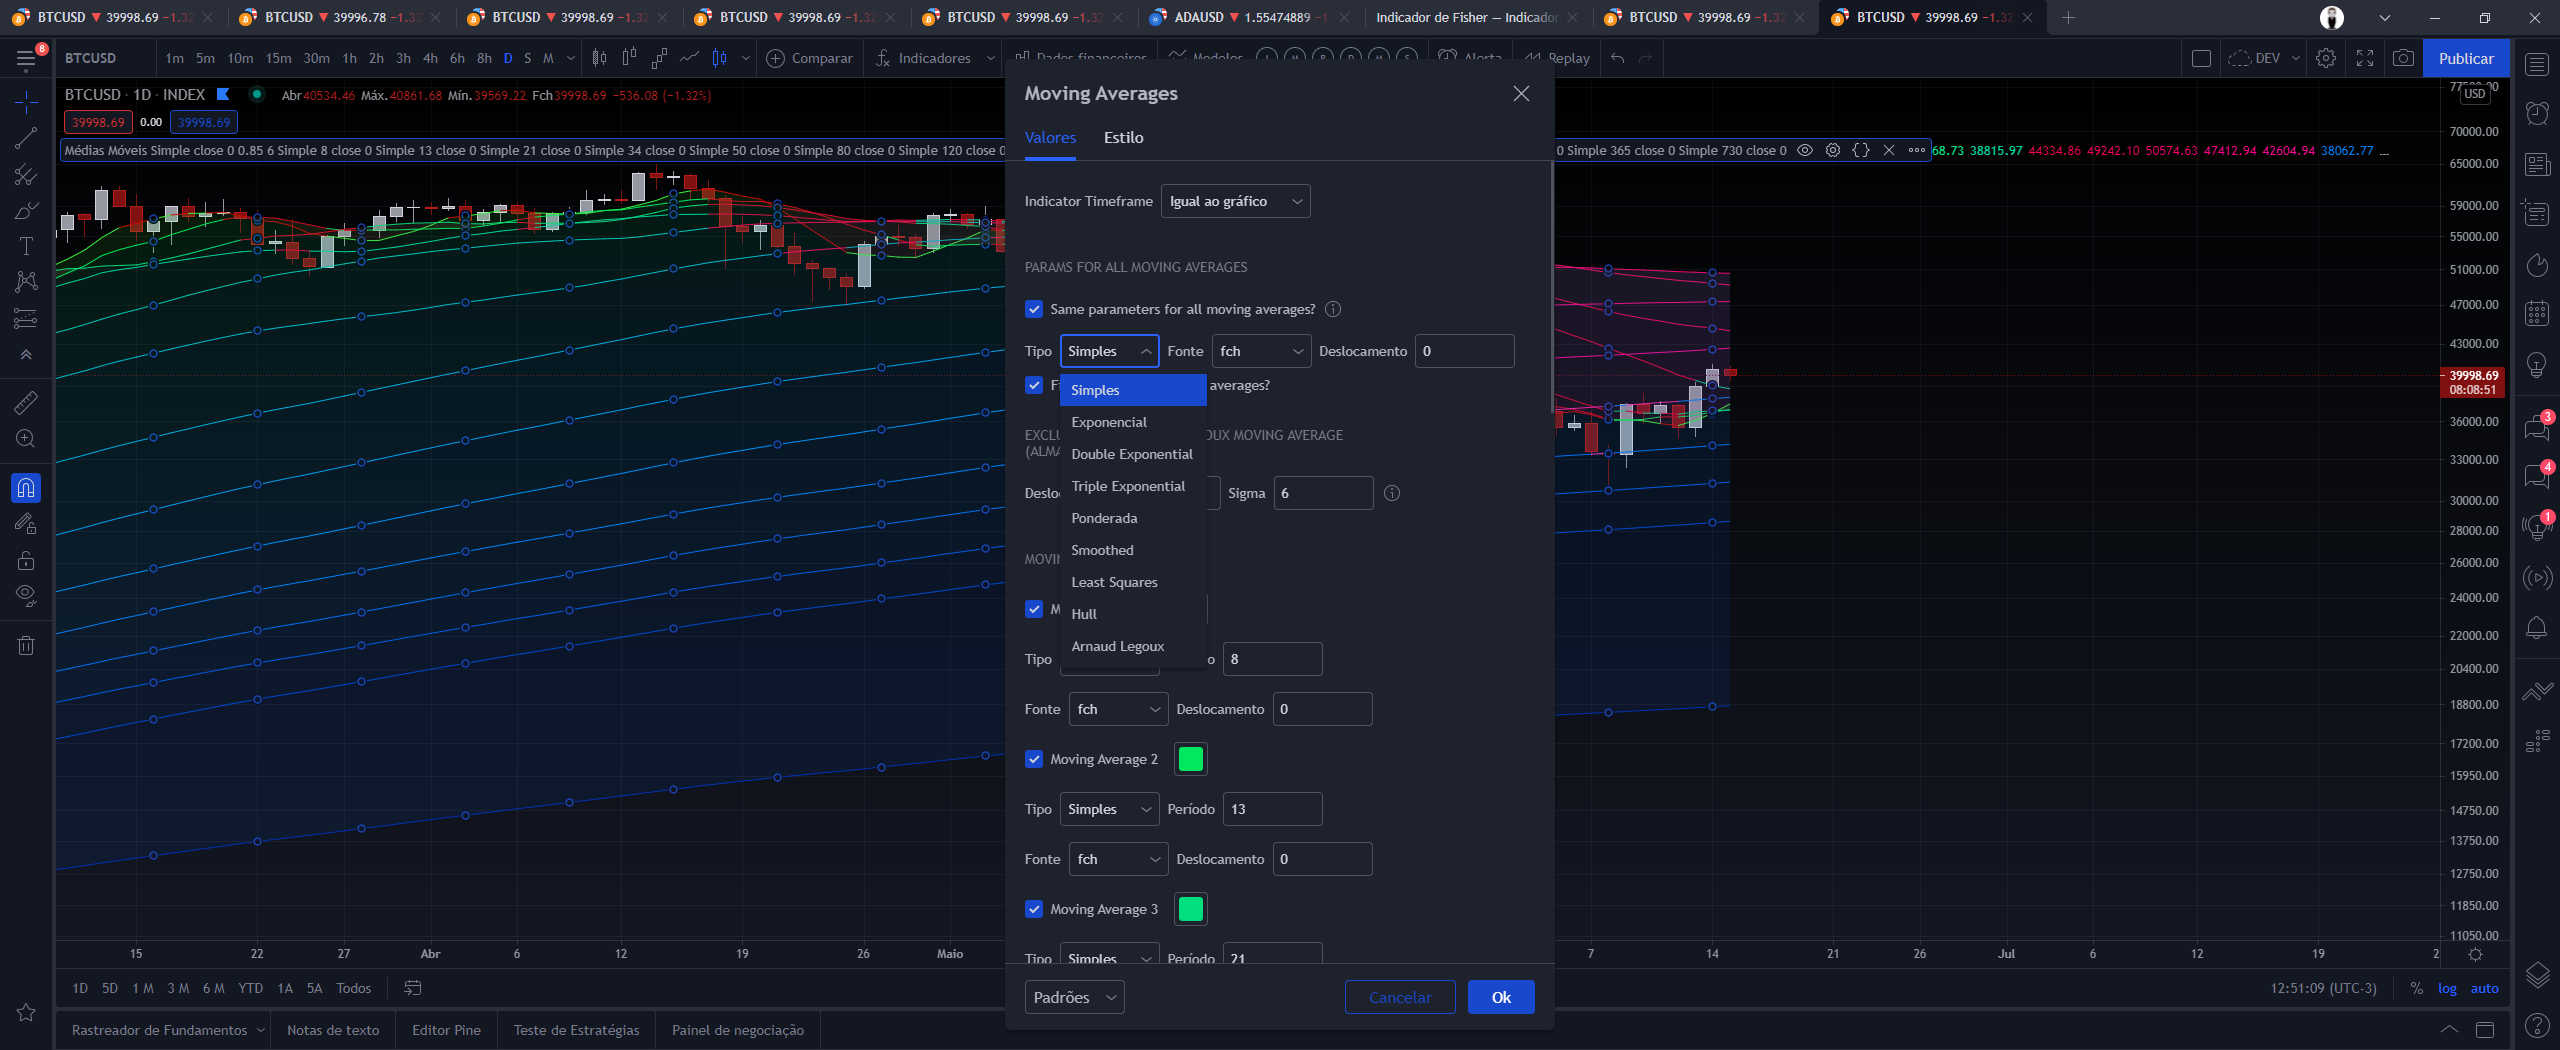
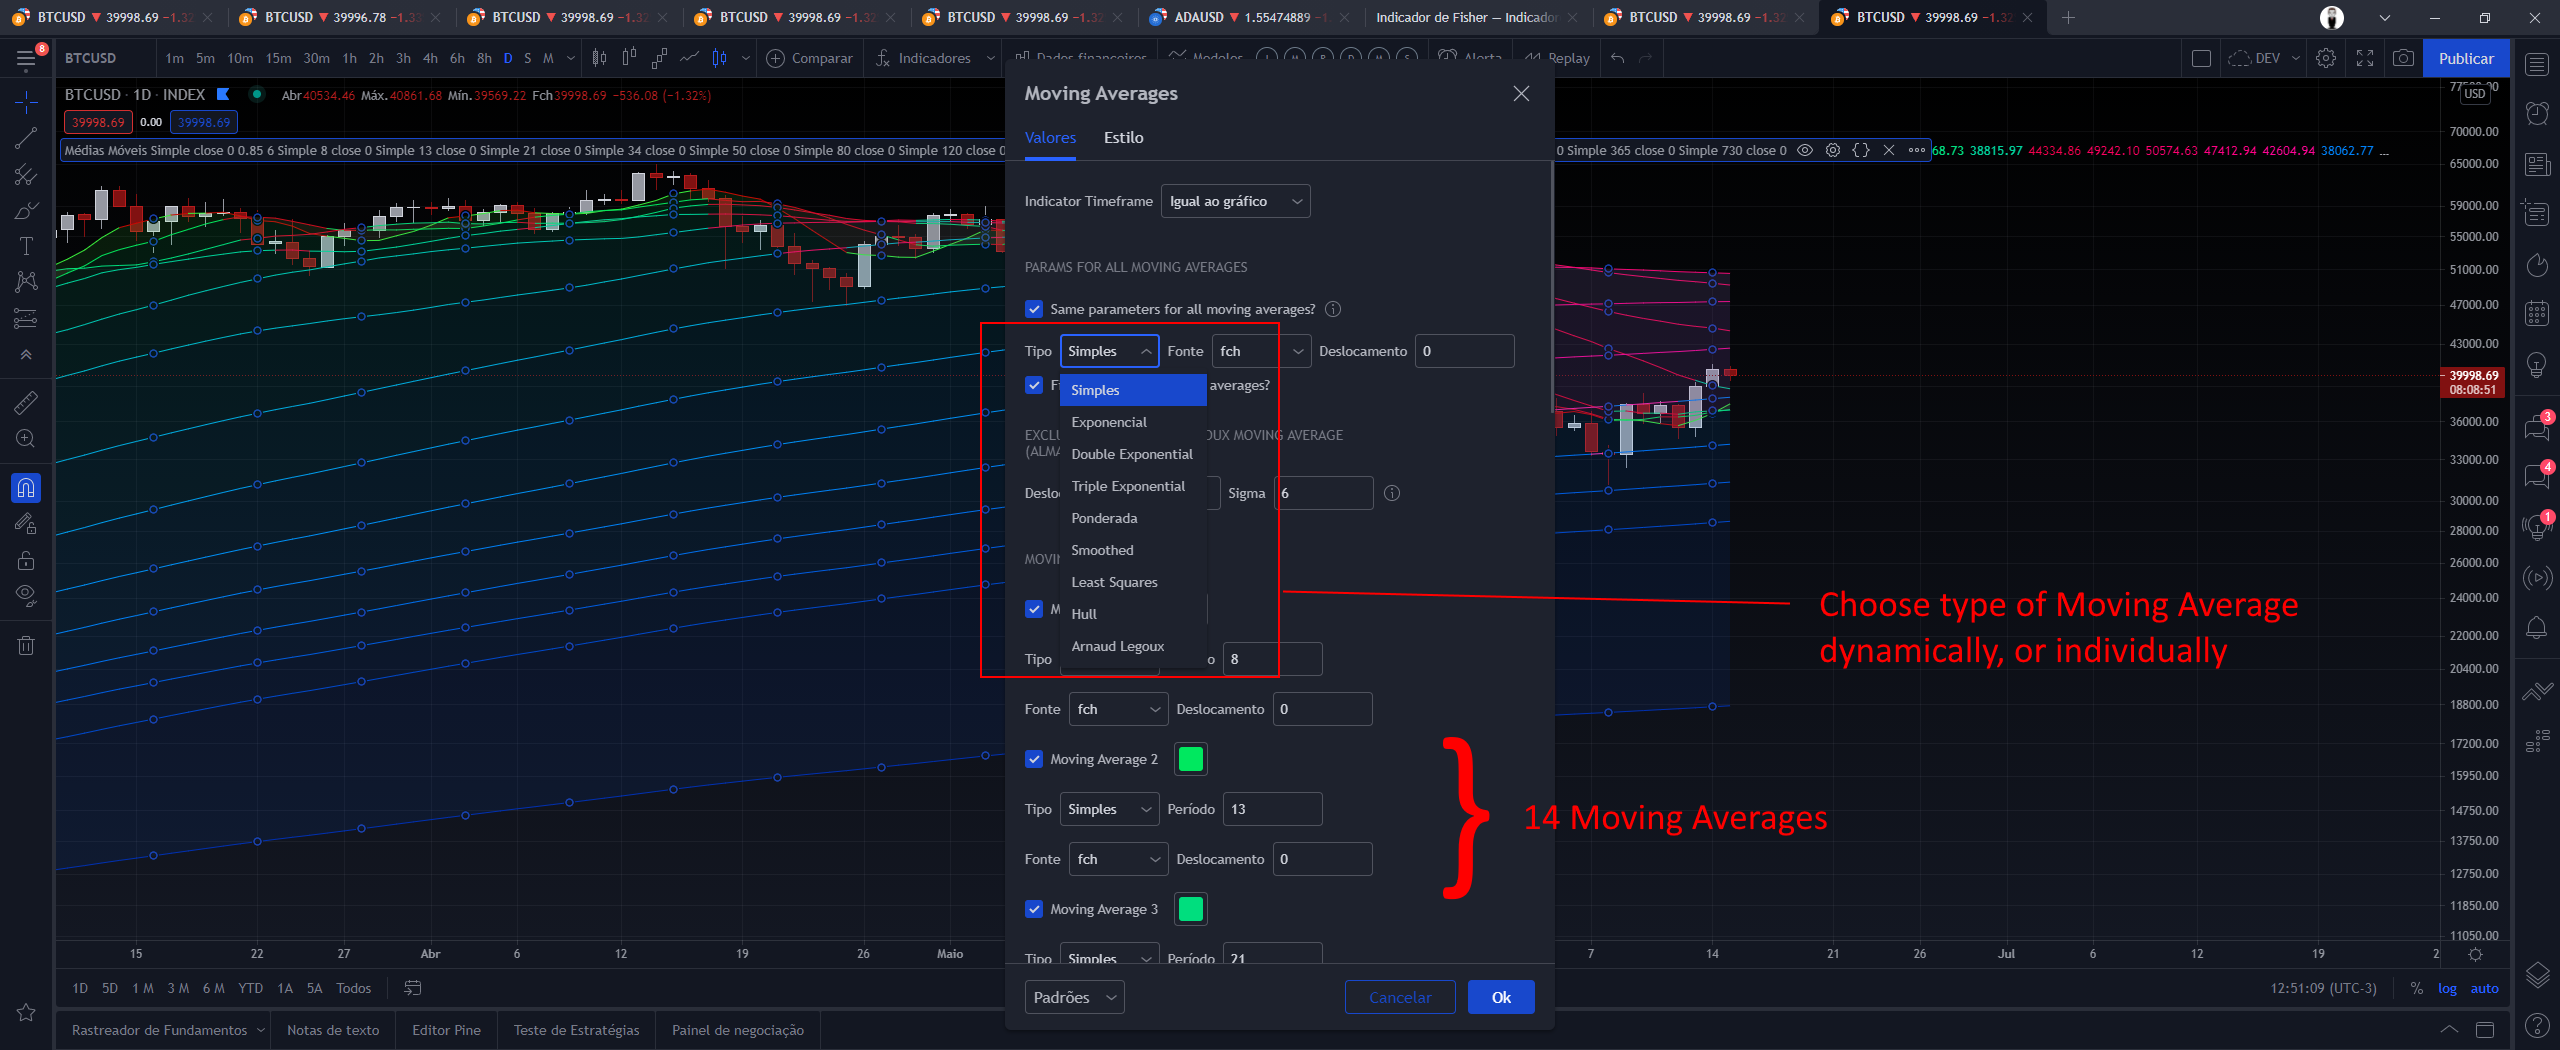
Correção Readme

Changed region(s): [[0.7188, 0.5486, 0.9062, 0.64], [0.5625, 0.701, 0.7188, 0.8533]]

diff --git a/TradingView---Moving-Averages-Collection/README.md b/TradingView---Moving-Averages-Collection/README.md
@@ -2,7 +2,7 @@
 
 ## Moving Averages Collection
 
-## Summary 📌
+## Summary 💊
 
 This is a collection of moving averages indicators.
 It's developed in PineScript for the technical analysis platform of **TradingView**.
@@ -16,7 +16,7 @@ This can be tedius, requiring the inclusion or removal of the indicators every t
 Basically, what this script does, is to allow the dynamic use of these indicators.
 That is, it is possible to choose the type of moving average as needed, facilitating the comparison and creation of setups.
 
-## Caution 💣
+## Caution 💊
 
 No technical indicators are 100% accurate as they can sometimes generate false signals.
 
@@ -24,7 +24,17 @@ You should never rely on a single indicator and always use a range of them when 
 
 ---
 
-## Definitions 📗
+## How to use this tool 💊
+
+Simply choose the type desired as the figure.
+In all are fourteen moving averages.
+There is also the possibility of choosing the indidual type of each.
+
+![alt](images/10-Params_1.png)
+
+---
+
+## Definitions 💊
 
 ### 1. Moving Averages 📈
 
